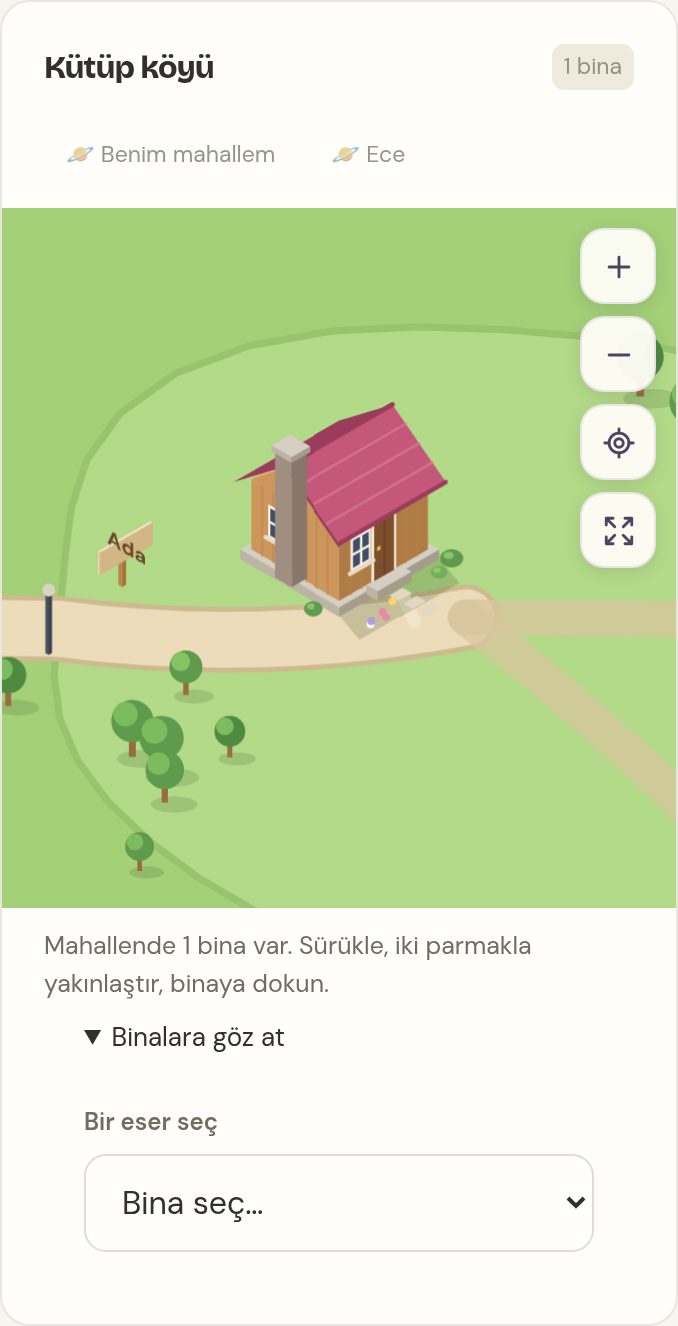
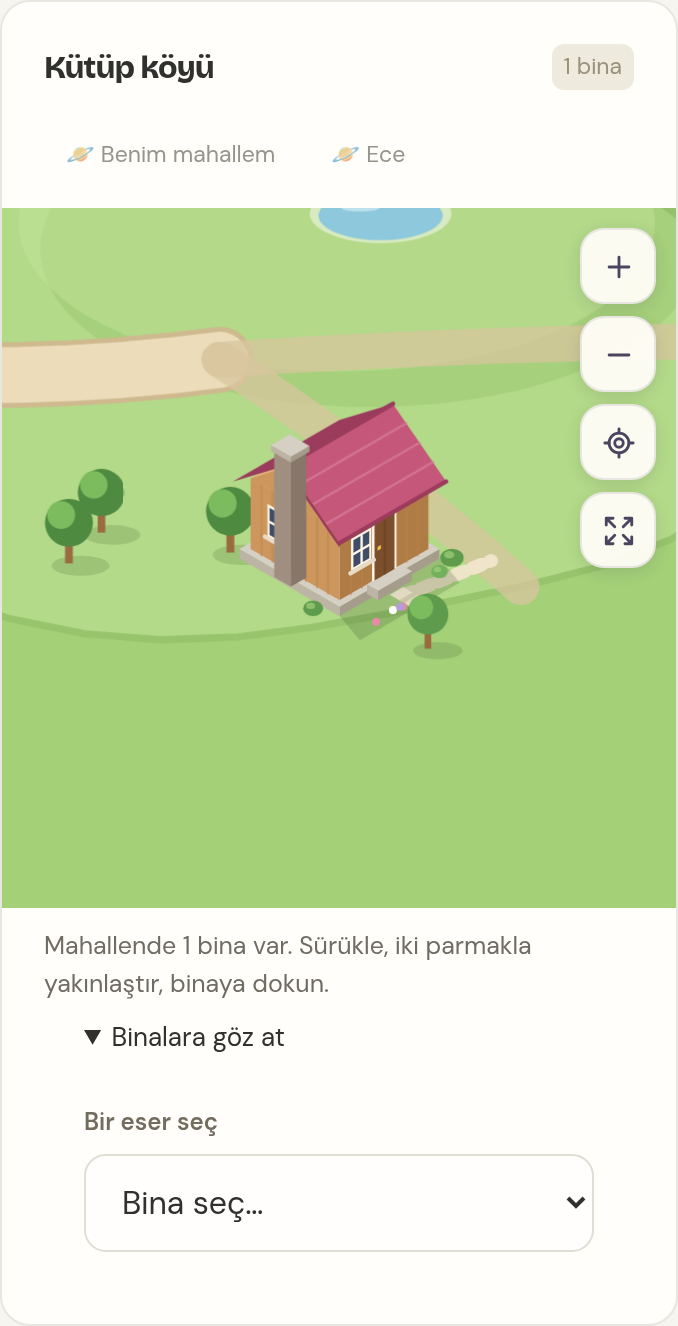
Document audit results, recovery procedures and Claude handoff

Changed region(s): [[0.0, 0.2474, 1.0, 0.6493], [0.4646, 0.1546, 0.6814, 0.1855], [0.9602, 0.2474, 1.0, 0.3092]]

diff --git a/kutup/ASTRA_RAPOR.md b/kutup/ASTRA_RAPOR.md
@@ -1,0 +1,87 @@
+# Kütüp — Astra denetim raporu
+
+**Tarih:** 14 Ekim 2026 · **Depo:** `batur-create/atomuparcalayanbebek` · **Dal:** `kutup-platform`  
+**İncelenen başlangıç:** `d1ac228c` · **Yöntem:** kod/SQL incelemesi, Node ve yerel workerd/D1 regresyonları, gerçek Chromium akışları ve çizim kontrolü. Çalışma Codex tarafından yürütüldü.
+
+## Özet
+
+1. Önce `ASTRA_DENETIM.md`, ardından `HANDOFF.md` bütünüyle okundu; temiz çalışma kopyası güncel dala fast-forward edildi.
+2. Tek kullanımlık kodların eşzamanlı kullanımı, kurtarma sonrası eski oturumlar ve iptal edilen cihazlara bildirim/SSE sızıntısı kapatıldı.
+3. Giriş denemelerinin sınırı artık Worker belleğine bağlı değil; ortak veritabanında tutuluyor. Yeni katılışlarda hesap zorunlu, eski üyeler korunuyor.
+4. Köyde boş arsa paylaşma, aynı isimle eşzamanlı katılma/profil düzenleme ve paralel odak başlatma yarışları işlem bütünlüğüyle korunuyor.
+5. Geç işlenen odak seansının binasının artımlı senkronda kaybolması, süresi dolan durum ve eski yanıtın yeni veriyi ezmesi düzeltildi.
+6. Haritanın son karosunun çizilmemesi ve büyük ekranlarda önbelleğin sürekli boşalıp dolması düzeltildi; 1.000 bina gerçek tarayıcıda doğrulandı.
+7. Hesap bileşenleri ayrıldı; erişilebilir ortak modal, Batur için kopyalanabilir kod penceresi, haritada klavyeyle bina seçimi ve hareket azaltmada görünür enkaz eklendi.
+8. Geliş/mola bildirimlerinin ayrı 45 dakika sınırı artık durum değiştirerek aşılamaz; eşzamanlı geliş tek bildirim üretir.
+9. Sonuç: **63/63 otomatik test**, **18/18 tarayıcı kontrolü**, **0 bildirilen npm açığı**. Canlı veri değişmedi. **Bu değişiklikler yayın bekliyor.**
+
+## Yapılan değişiklikler
+
+| Commit | Dosyalar | Sorun ve yeni davranış | Risk / doğrulama |
+| --- | --- | --- | --- |
+| `2975294a` | `tests/suite.js` | Wrangler’ın yazılamayan kullanıcı dizinine bağımlılığı kaldırıldı. Geçici config/log dizini; erken süreç ölümü anında hata; test anahtarı hata çıktısında maskelenir. | Düşük. İlk ortam hatası giderilince başlangıçtaki 45 test geçti. TLS doğrulaması kapatılmadı. |
+| `9cacccc5` | `server/app.js`, `schema.js`, `index.js`, `src/Owner.jsx`, testler | Transfer ve kurtarma kodu tüketimi koşullu tek batch; sadece kazanan oturum açar. Parola/kurtarma kodu eski cihazları kapatır; normal cihaz aktarımı ilk cihazı korur. | Orta: oturum davranışı bilinçli sıkılaştı. Node/D1 paralel kod denemeleri, eski cookie reddi ve normal transfer testleri. |
+| `9cacccc5` | Aynı dosyalar | Push aboneliği cihaz oturumuna bağlı. Owner aboneliği ayrıca anahtar sürümüne bağlı. Çıkış bütün oturumları, abonelikleri ve verilmiş kodları iptal eder. Node SSE gönderim/heartbeat sırasında yetkiyi yeniden kontrol eder. | Orta: eski abonelikler ilk doğrulanmış ziyarette tekrar bağlanır. İptal sonrası SSE kapanması, push gelmemesi ve owner logout testleri. |
+| `9cacccc5` | `server/app.js`, `schema.js` | Normal oturumda 365 gün, owner’da 30 gün sunucuda da uygulanır. SHA-256 anahtarlı, atomik SQLite/D1 deneme sayaçları; login, reset, transfer ve yönetici girişine ortak sınır. Yeni katılışta kullanıcı adı/şifre zorunlu. | Eski, süresi dolmamış hesaplar ve oturumlar korunur. Legacy göç, kopyalanmış eski cookie, iki app instance’ı ve eksik hesap testleri. |
+| `9dbfe175` | `server/app.js`, `schema.js`, testler | Okuma/planlama ile yazma arasına revision kontrolü kondu. Aynı boş arsayı kapma, isim çakışması, profil çakışması ve iki cihazdan odak başlatma güvenli biçimde yeniden denenir/reddedilir. | Orta: göç 9 gerekli; geçersiz guard bütün batch’i geri alır. Yarış testleri ve koordinatların korunması doğrulandı. |
+| `9dbfe175` | `server/app.js` | Sonradan işlenen bina `created=odak bitişi`, `touched=eklenme zamanı` alır. Süresi dolan durum kalıcı olarak `away` olur ve revision artar. Parola kontrolüyle session ekleme arasındaki hesap değişimi de denetlenir. | Düşük/orta. Geç kredilendirme, artımlı bina listesi, idle polling, eski koordinatlar ve hesap testleri. |
+| `76ffbe8d` | `src/sync.js`, `App.jsx`, `api.js`, `VillageMap.jsx`, `villageWorld.js` | Düşük revision’lı cevap reddedilir; poll istekleri üst üste binmez, eski effect isteği iptal edilir. Köy hatası görünür, otomatik ve elle yeniden deneme vardır. Bozuk JSON başarılı veri sayılmaz. | Düşük. Saf merge testleri ve gerçek tarayıcıda ilk köy isteğini düşürüp toparlama kontrolü. |
+| `76ffbe8d` | `src/villageView.js`, `villageWorld.js`, `tests/client.test.js` | Görünen karolar 40’lık önbelleğe sığacak çözünürlük seçer; çok uzak zoom desteklenir. Son üretilen karo uyumadan önce ekrana aktarılır. Yol üyeliği `Set` ile aranır; gizli sayfada çizim durur. | Görsel risk: büyük ekranda gerektiğinde daha düşük karo çözünürlüğü. Mobil, 1080p/4K boyut matematiği ve gerçek 1.000 bina çizimiyle doğrulandı. |
+| `839645dc` | `src/Account.jsx`, `Modal.jsx`, `App.jsx`, `Owner.jsx`, `ui.jsx`, CSS | 578 satırlık hesap/profil akışı ayrıldı. Modal `inert` arka plan, Escape, Tab döngüsü ve odak geri dönüşü sağlar. Giriş sekmeleri ok tuşlarıyla seçilir. Batur kodu seçilebilir/kopyalanabilir pencerede; Busy düğmesi yüklenirken gerçekten devre dışı kalır. Eski “şifre yok” metni düzeltildi. | Orta: bileşen taşıma. Gerçek mobil signup, invite, kurtarma, owner, klavye ve tarayıcı hatası kontrolleri geçti. |
+| `839645dc` | `src/Village*.jsx/js`, `styles.css` | Sayfalı bina listesi, canvas Enter seçimi, enkaz süresinin istemcide sona ermesi; küçük yazılar için ana muted rengi koyulaştırıldı. Uzakta kişi başına tek etiket, lamba ve seçili bina için doğrudan indeksler. | Düşük. Bina listesi/kart, mobil taşma ve 1.000 bina görselleri. Saklı konumlara dokunulmadı. |
+| `839645dc` | `src/Village.jsx` | Hareket azaltmada çökme sahnesi ilk çizimde enkazı gösterir; 5 sn’lik sonraki tick’i beklemez. Zıplama/konfeti hareketi kapalıdır. | Düşük. Kulübe/ev/kule × temel/yükselme/bitiş/enkaz olmak üzere 12 sahne gerçek Chromium’da incelendi. |
+| `839645dc` | `server/index.js`, tarayıcı testleri | Vite HMR Node HTTP portunu paylaşır; aynı makinedeki izole test sunucuları varsayılan WebSocket portunda çakışmaz. | Yalnız geliştirme. Yakalanan gerçek WebSocket hatası düzeltildi; final tarayıcı koşusunda JS hatası yok. |
+| `c39bb63e` | `server/app.js`, `public/_headers`, `src/App.jsx`, testler | Geciken “görüldü” daha yeni istek aşamasını ezemez; geçmiş ve durum aynı işlemde korunur. Gövde akışı 16 KiB’ta durdurulur; bozuk URL 400, `Origin: null` 403 olur. Worker statik içeriğine Node ile aynı CSP eklendi. Eski hesap epoch’undaki focus yanıtı yok sayılır. | Düşük/orta. Zorlanmış gecikmeli seen yarışı, Node/D1 paralel panel işlemi, sınırsız stream’i erken kesme ve bozuk istek testleri. |
+
+| `00251a00` | `server/app.js`, `schema.js`, çekirdek ve uçtan uca testler | Geliş/mola için ayrı kalıcı cooldown; durum işlemleri taze üye bilgisi ve revision guard ile yapılır. İki cihazdan geliş tek pano hareketi ve push üretir. | Göç 10 eski son bildirim zamanını korur. Node/Worker şifreli teslim, here/break döngüsü, süre dolumu ve migration doğrulandı. |
+
+Küçük commit’ler sonunda `npm run test:all` yeşil bırakıldı. İlk başarısız koşu ortamın Wrangler dizinindendi. Geliştirme sırasında yeni güvenlik davranışına göre bildirim aboneliği yeniden kaydı ve test kullanıcısı girişleri güncellendi; hiçbir test kapatılmadı veya assertion boşaltılmadı.
+
+## Şema ve veri bütünlüğü
+
+- **Göç 1–7 aynen korundu.** Yeni göçler listede sona eklendi; her eleman tek SQL ifadesi.
+- **8:** `auth_limits`, süre indeksi; `subscriptions.session_token` → `sessions` ve `owner_subscriptions.session_token` → `owner_sessions`, `ON DELETE CASCADE`; owner aboneliğine `key_hash`; oturum süre indeksleri.
+- **9:** tek satırlık `write_guard`; `snapshot_changed` CHECK koşulu. Okunan grup revision’ı veya feedback sürümü artık aynı değilse tüm batch iptal edilir. En fazla beş deneme; başarısız işlem kısmi veri bırakmaz.
+- **10:** `members.pushed_here_at` ve `pushed_break_at`; bilinen eski son bildirim ilgili alana taşınır. Artık tür değiştirmek önceki cooldown’ı sıfırlamaz. Durum yazmaları da göç 9 korumasını kullanır.
+- Köy konumları, yönleri ve mevcut odak kayıtları yeniden hesaplanmadı. Eski veritabanından yükseltme, ikinci başlangıçta konum değişmemesi, silinen üyenin boş mahallesinin yeniden kullanılması test edildi.
+- `auth_limits` ve `write_guard` sıcak, değişmeyen `/state?rev` yoklamasına ekstra yazma getirmez. Auth sayaçları sadece ilgili giriş işlemlerinde, guard ise ilgili değişikliklerde kullanılır.
+- Mevcut API yolları, cevapların temel şekli ve `?tab=focus` bağlantıları korundu. Bilinçli doğrulama değişikliği: yeni `/groups` ve `/join` istekleri kullanıcı adı/şifre ister; güncel arayüz zaten bunları gönderiyordu.
+
+## Test ve yayın durumu
+
+| Kontrol | Sonuç |
+| --- | --- |
+| `npm ci --cache /workspace/.npm-cache --no-audit --no-fund` | Kilit dosyasıyla kuruldu; paket sürümleri değiştirilmedi. |
+| `npm run test:all` | **63 geçti, 0 başarısız, 0 atlanan.** Vite build + çekirdek/istemci/push + Node + gerçek yerel workerd/D1. |
+| `python tests/browser_smoke.py --chromium /usr/bin/chromium` | **18 kontrol geçti.** Kendi geçici veritabanını ve sunucusunu açar/kapatır. Chromium `154.0.8037.57`. |
+| Mobil | 375×812: Kütüp, Planlar, Köy, Pano ve Batur’a sekmelerinde yatay taşma yok. Modal odağı, hesap açma/kurtarma, özel geri bildirim, ikinci tarayıcıya durum, bina seçimi doğrulandı. |
+| Görsel | 12 SVG sahne, mobil Canvas harita ve 1.000 bina gerçek tarayıcıda çizildi ve ekran görüntüleri incelendi. |
+| `npm audit --json` | **0** bildirilen açık; bu sonuç uygulamaya yönelik pentest sertifikası değildir. |
+| Canlı salt okunur health isteği | Çevre proxy’si `CONNECT ... 403` döndürdü; siteye ulaşılamadı. Bu, canlı sitenin bozuk olduğu anlamına gelmez. |
+| Deploy | **Çalıştırılmadı / yayın bekliyor.** Cloudflare API kimliği bu ortamda yok; ağ da engelli. Yerel workerd sonucu canlı deploy sonucu değildir. |
+| Bulut ortamı | Güncel `start_skill` taslağı kaydedildi. Kurulum betiği ve bilinmeyen sırlar değiştirilmedi. Taslak kaydı yayın değildir. |
+
+Tarayıcı ölçümü: **1.000 bina, 122 mahalle, 4.497 çizim öğesi**. Dünya oluşturma **47,7 ms**; merkezdeki örnek alan sorgusu 128 öğe döndürdü. Bu yerel Chromium ölçümüdür; telefon FPS’i, Cloudflare CPU süresi veya D1 günlük kotası ölçümü değildir. DPR 2’de 40 adet 256px karo yaklaşık 40 MiB ham piksel belleğidir; ana canvas ve tarayıcı ek yükü buna dahil değildir.
+
+Kanıtlar: [sonuç JSON’u](audit/2026-10-14/results.json), [mobil köy](audit/2026-10-14/mobile-village.png), [kod penceresi — kod maskeli](audit/2026-10-14/owner-recovery.png), [12 inşaat sahnesi](audit/2026-10-14/construction-scenes.png), [1.000 bina](audit/2026-10-14/village-1000.png). Hepsi sentetik yerel veridir.
+
+## Tespit edilip değiştirilmeden bırakılanlar
+
+1. **Kalıcı ayrılma/silme:** HANDOFF’taki açık gizlilik kararıyla uyumlu. Gizli 30 günlük kişisel arşiv eklemek ürün/saklama politikası değişikliği olurdu. Ad yazarak ayrılma onayı korunuyor. Kurtarma yolu ve sınırlar [RECOVERY.md](RECOVERY.md) içinde.
+2. **JSON’dan otomatik restore yok:** Panel export’u bir veri kopyası; oturum ve push sırlarını taşımıyor. Canlı üstüne güvenli olmayan bir import eklenmedi. Ayrı boş hedef, şema doğrulama, FK/sayaç/konum karşılaştırması ve prova şartlarını belgeledim. D1 Time Travel bütün veritabanını geri alır; sonradan oluşan verileri ve eski oturumları da etkiler. Uzak kurtarma komutları burada denenmedi.
+3. **PBKDF2 20.000 tur:** Ücretsiz Worker CPU bütçesi için alınmış karar korundu. Ortak DB rate limit’i eklendi; gerçek edge CPU ölçümü yapılmadan hash maliyeti yükseltilmedi. Daha geniş kullanıma geçilirse auth bütçesi ve güçlü parola maliyeti yeniden değerlendirilmelidir.
+4. **Genel yazma/join burst sınırı hâlâ süreç belleğinde:** Kritik login/reset/transfer/owner denemeleri ortak veritabanına taşındı. Mesaj, plan ve diğer yazmalar için global abuse kontrolü ayrıca ele alınmalı. Node’da `TRUST_PROXY` varsayılanı güvenilen reverse proxy varsayar; Node doğrudan internete açılacaksa `TRUST_PROXY=0` kullanılmalı. Canlı Worker `cf-connecting-ip` kullanır.
+5. **Köy zaman tabanlı delta:** Beş saniyelik overlap korunuyor. Geç odak kredisi hatası düzeltildi; birbirinden beş saniyeden fazla sapan sunucu saatleri ve çok büyük bbox akışları için revision tabanlı kalıcı değişiklik günlüğü ayrı bir geliştirme olabilir.
+6. **Çok büyük ilk legacy yerleşimi:** Mevcut canlı köy zaten yerleşmiş durumda. Binlerce konumsuz eski bina içeren özel import/backfill’in gerçek D1 istek/kota limitleri altında parçalara bölünmesi ayrıca denenmeli. Yeni 1.000 bina tarayıcı testi, böyle bir uzak migration testi değildir.
+7. **Gerçek telefon/push/offline:** Android/iOS fiziksel cihaz, VoiceOver/TalkBack, Safari, ekran kilidi ve gerçek push servis teslimi burada doğrulanmadı. Şifreleme, VAPID, teslim gövdesi ve yetkisiz aboneliğe göndermeme otomatik testli. Tam çevrimdışı uygulama/işlem kuyruğu yok; mevcut veri saklama ve retry davranışı korundu. Tam WCAG uygunluğu iddiası yok.
+8. **Kalan yapı:** Ana uygulama ve CSS hâlâ büyük; hesap/modallar ayrıldı, geniş çaplı yeniden yazım yapılmadı. Mürekkep, kara delik, rozetler ve Paket 2–9 kapsamına girilmedi.
+
+## Claude için devam notu
+
+1. `kutup-platform` güncel commit’lerini al; `ASTRA_DENETIM.md`, bu rapor ve HANDOFF §6b’yi birlikte oku. Değişikliklerin canlıda olduğunu varsayma.
+2. Yetkili ortamda önce yedek ve doğru D1 hedefini doğrula. Yeni göçler **8, 9 ve 10**. Testler geçmeden deploy etme; veri/sır dosyalarını ekrana veya Git’e çıkarma.
+3. Publish sonrası eski oturumla giriş, owner paneli, bir normal transfer, kurtarma sonrası eski cihazın reddi ve bildirim yeniden bağlanmasını kontrol et. Eski abonelikler kaybolmuş sayılmaz; doğrulanmış ziyarette otomatik kaydolur. Sadece hiç geri açılmayan eski cihazlara bildirim durur.
+4. Sabit bina konumlarını değiştirme. Artımlı API için `touched` yazma zamanıdır; `created` tarihî odak bitişidir. İstemcide revision sıralama ve istek iptalini koru.
+5. `write_guard` CHECK hatasını başarısızlığın ortasında yutup sonraki SQL’lere devam etme. SQLite/D1 batch rollback sözleşmesi bu korumanın parçasıdır.
+6. Tarayıcı testini çalıştırmak için Python Playwright ve Chromium gerekir; npm bağımlılıklarına eklenmedi. `tests/visual-harness.html` yalnız geliştirme fixture’ıdır; Vite üretim build’ine girmez. Testler `kutup/data/` kullanmaz.
+7. Bundan sonraki özellik paketi öncesinde bu denetimin yayınını tamamla. Takip riskleri yukarıda açık; restore aracını veya veri saklama politikasını aceleyle canlıya ekleme.

diff --git a/kutup/HANDOFF.md b/kutup/HANDOFF.md
@@ -14,12 +14,12 @@ Sen bu projeye kaldığı yerden devam eden geliştiricisin. Önceki sohbete eri
 
 ## 2. Mevcut özellikler (bozma)
 
-- Davet linkiyle özel ekip (`/join/<davet>`): isim, 24 avatar, 6 renk, masa notu, 5 tema. E-posta ya da şifre yok; oturum HttpOnly çerez (`kutup_session`, 1 yıl).
+- Davet linkiyle özel ekip (`/join/<davet>`): isim, 24 avatar, 6 renk, masa notu, 5 tema. E-posta yok; yeni katılışta kullanıcı adı ve şifre zorunlu. Oturum HttpOnly çerez (`kutup_session`, 1 yıl; sunucu da süreyi denetler). Eski hesapsız üyeler korunur.
 - Başka cihaz: Profil → "Başka cihazda aç" 15 dakikalık tek kullanımlık kod verir; giriş ekranında "Zaten ekipteyim" ile kullanılır. iPhone'da ana ekran uygulaması Safari'den ayrı çerez tuttuğu için şart.
 - Durum (Kütüpte / Yolda / Molada / Dışarıda), salon ve masa, "burada · 1 sa 35 dk"; durum 8 saat sonra kapanır.
 - Web Push (kendi yazdığımız Web Crypto RFC 8291 + VAPID), 45 dakikalık geliş bildirimi soğuması, bildirime dokununca ilgili sekme (`/?tab=…`).
 - Planlar (iki hafta ileri, "Ben de gelirim"), pano (mesaj, kalp, kahve daveti), haftalık odak tablosu.
-- **İnşaat modu ve köy (Forest tarzı):** Odak seansları 25/50/75 dk. İnşaat modu açıkken seans süresi binayı belirler: 25 → kulübe, 50 → iki katlı ev, 75 → kule (eşikler 40 ve 70 dk). Seans boyunca canlı izometrik şantiye çizilir. Uygulamadan 10 saniyeden uzun çıkılırsa (sekme kapatma dahil) bina çöker; tamamlanınca köye kalıcı olarak eklenir. Ekran Wake Lock ile açık tutulur. Şu an her kişinin köyü ayrı çiziliyor; bu değişecek (bkz. Paket 1).
+- **İnşaat modu ve köy (Forest tarzı):** Odak seansları 25/50/75 dk. İnşaat modu açıkken seans süresi binayı belirler: 25 → kulübe, 50 → iki katlı ev, 75 → kule (eşikler 40 ve 70 dk). Seans boyunca canlı izometrik şantiye çizilir. Uygulamadan 10 saniyeden uzun çıkılırsa (sekme kapatma dahil) bina çöker; tamamlanınca köye kalıcı olarak eklenir. Ekran Wake Lock ile açık tutulur. Tek ortak köyde herkesin kendi mahallesi var; Paket 1 tamamlandı.
 - **"Batur'a ilet":** fikir, hata ya da sohbet. Kargo takibi gibi aşamaları var: new → seen → accepted → building → done, ya da declined. Kendine ait ilham örnekleri, gönderme animasyonu, "yeni gelişme" rozeti ve her aşamada gönderene push.
 - **`/batur` yönetici paneli:** istekler (açınca "İncelendi" olur, tek tuşla aşama, not, geçmiş, arkadaşın gördüğü takip çizgisinin önizlemesi, silme), yeni istek push'u, ekipler, davet yenileme, üye çıkarma. Giriş: `ADMIN_KEY` ya da ilk ziyarette belirlenen anahtar; sonra 30 günlük `kutup_owner` çerezi (yolu `/api/owner`, SameSite=Strict). Yönetici şu an hiçbir üyeye bağlı değil.
 - Hareket katmanı: başlıklar Bricolage Grotesque, gövde DM Sans. Ziyaret başına bir kez oynayan açılış koreografisi. Diğer hareketler sadece bir eyleme cevap verir. `prefers-reduced-motion` destekleniyor.
@@ -62,13 +62,13 @@ kutup/
 ```
 npm ci
 npm run dev          # http://localhost:3001 (Node + SSE + Vite); veri: kutup/data (yerel test verisi var)
-npm test             # çekirdek + push + Node uçtan uca (25 test)
-npm run test:worker  # aynı senaryolar yerel workerd + D1 (16 test)
-npm run test:all     # hepsi (41 test) — her teslimden önce yeşil olmalı
+npm test             # çekirdek + istemci + push + Node uçtan uca
+npm run test:worker  # aynı senaryolar yerel workerd + D1
+npm run test:all     # hepsi (63 test) — her teslimden önce yeşil olmalı
 npm run deploy       # vite build + wrangler deploy (canlı)
 ```
 
-- **Wrangler** Batur'un Cloudflare hesabına OAuth ile bağlı. Token süresi dolarsa `npx wrangler login --device --browser=false` çalıştır. Çıkan kodu tarayıcı panelinde `https://dash.cloudflare.com/oauth2/device/verify` adresinde kutuya yaz, Batur'a "Continue ve Allow'a bas" de. Kodun ömrü 5 dakika.
+- **Wrangler (Batur’un Windows çalışma ortamı):** Cloudflare hesabına OAuth ile bağlı. Bu bağlantı Codex bulut ortamına taşınmış sayılmaz; 14 Ekim denetiminde burada yayın kimliği yoktu ve Cloudflare ağı 403 verdi. Token süresi dolarsa `npx wrangler login --device --browser=false` çalıştır. Çıkan kodu tarayıcı panelinde `https://dash.cloudflare.com/oauth2/device/verify` adresinde kutuya yaz, Batur'a "Continue ve Allow'a bas" de. Kodun ömrü 5 dakika.
 - **Canlı `ADMIN_KEY`** Cloudflare'de secret olarak tanımlı. Yerel kopyası `kutup/data/batur-key-canli.txt`. Asla ekrana basma ya da sohbete yazma.
 - **Canlı duman testi:** API ile geçici bir ekip kur, dene, sonunda `POST /api/leave` ile sil. Yayından hemen sonra kenar önbellek birkaç saniye eski HTML verebilir.
 - **Yerelde `/batur` testi:** Anahtarı yazmak yerine Node ile yerel veritabanına `owner_sessions` satırı ekle (`token = sha256(rastgele)`, `key_hash = sha256(anahtar)`). Sonra sayfada `document.cookie = "kutup_owner=<rastgele>; path=/api/owner"` yap.
@@ -97,6 +97,21 @@ npm run deploy       # vite build + wrangler deploy (canlı)
 
 ## 6b. Durum (son güncelleme 14 Ekim 2026)
 
+### Astra denetimi (14 Ekim 2026)
+
+**Yerelde tamamlandı; yayın bekliyor.** Ayrıntılar ve commit listesi [ASTRA_RAPOR.md](ASTRA_RAPOR.md), kurtarma prosedürü [RECOVERY.md](RECOVERY.md). `npm run test:all`: **63/63**, gerçek Chromium: **18/18**, `npm audit`: **0** bildirilen açık. `audit/2026-10-14/` sentetik verili ekran görüntülerini ve ölçümü içerir. Canlı arkadaş grubuna ve `data/` dosyalarına dokunulmadı.
+
+- **Göç 8:** ortak `auth_limits`; normal/owner push abonelikleri oturumla bağlı; owner aboneliğinde `key_hash`; oturum süre indeksleri. Eski abonelikler ilk doğrulanmış ziyarette tekrar bağlanır; sunucu anonim eski kayıtlara bildirim göndermez. Parola kurtarma eski cihazları kapatır; normal cihaz aktarımı ilk cihazı açık tutar. Yönetici tüm cihazlardan çıkış, push ve verilmiş kodları da iptal eder. Node SSE her gönderimde oturumu doğrular.
+- **Göç 9:** `write_guard` ve `snapshot_changed` CHECK koşulu; okuma/planlama sırasında değişen ekip veya istek olduğunda batch tamamen geri alınır ve güncel veriyle denenir. Bunu kaldırma; aynı boş arsayı kapma, aynı adlı katılma/profil, paralel odak başlatma ve gecikmiş “görüldü” yarışları için gereklidir. Göç 1–7 değişmedi.
+- **Göç 10:** geliş ve mola için ayrı kalıcı bildirim zamanları; `here → break → here` döngüsü 45 dakika sınırını aşamaz. Eşzamanlı durum değişikliği revision korumasına alındı; çift bildirim/pano hareketi üretmez. Eski son bildirim zamanı korunur.
+- **Senkron:** geç tamamlanan binanın `created` değeri bitiş zamanı, `touched` değeri eklenme zamanı. İstemci düşük revision’lı yanıtı kabul etmez; köy ağ hatasını yeniden dener. Süresi dolan durum grup revision’ını değiştirir. Enkaz istemcide zamanı gelince kaldırılır.
+- **Arayüz:** hesap/profil akışları `src/Account.jsx`, ortak pencereler `src/Modal.jsx` içinde. Modal arka planı `inert`, odağı hapseder/geri verir; giriş sekmeleri ok tuşlarıyla çalışır. Batur kodu prompt yerine kopyalanabilir pencere. Haritada sayfalı bina seçimi ve Enter desteği var. Küçük yazıların ana muted rengi koyulaştırıldı.
+- **Çizim:** görünen karolar 40’lık önbelleğe sığacak ölçek seçer; son çizilen karo ekrana aktarılır. Hareket azaltmada çökme anında enkaz görünür. 1.000 bina/122 mahalle Chromium’da doğrulandı; uzakta tek kişi adı, yakında mahalle tabelaları korunur. Saklı koordinatlar değişmedi.
+- **Araçlar:** `npm run test:browser` Python Playwright + Chromium ister; tüm verisi geçicidir. Vite HMR artık Node HTTP portunu paylaşır. Bulut `start_skill` taslağı güncellendi; bu site yayını değildir.
+- **Claude’un ilk işi:** yetkili ortamda yedek al, güncel dalı çek, testleri çalıştır, göç 8/9/10’u inceleyip yayınla; eski bir üye ve owner cihazında push yeniden bağlanmasını, ikinci cihazla kod/giriş ve revocation’ı doğrula. Canlı `ADMIN_KEY` ve davetleri değiştirme; gerçek üyeler için deneme silmesi yapma. Paket 2–9 eklenmedi, önce denetim yayını.
+
+### Önceki paketlerin durumu
+
 - **Paket 1 ✅ yayında.** Ortak köy: `shared/village.js` (hex kafes mahalleler, kıvrımlı yollar, Poisson yerleşim, `createPlanner`), göç 6 (`districts`, `buildings.pos_x/pos_y/facing/district_id/likes/touched`, `building_likes`, `members.ruin_*`, `groups.village_rev`), açılışta `layoutVillages()` eski binalara kalıcı konum verir. `/api/village?rev=&after=` artımlı (sadece değişen satırlar), `POST /api/buildings/:id/like`. Çizim: `src/iso.js` (SVG/Canvas ortak primitifler), `src/villageWorld.js` (dünya + gün/gece tonu), `src/villageView.js` (256px karo önbelleği, LOD, pinch/pan, canlı katman), `src/VillageMap.jsx` (`useVillage`, `VillagePanel`, ana sayfa `VillageNow`). Mahalle kapasitesi en fazla 9, pratikte 7–9.
 - **Ölçek:** 5 kişi sıkı bir dönemde ~300–1.900 bina. Sıcak yollar sayaçlarla (`districts.buildings`, `buildings.likes`) çalışır, tüm binaları taramaz (D1 ücretsiz 5M satır/gün sınırı).
 - **Paket 1.5 sunucu tarafı ✅ yayında (göç 7):** `members.username/pass_hash/reset_hash/reset_until`; `POST /api/account` (oturum açık cihazdan kullanıcı adı + şifre belirle/değiştir), `POST /api/login`, `POST /api/reset` (Batur kodu + yeni şifre, kullanıcı adı yoksa onu da belirler), `/join` ve `/groups` gövdede `username/password` kabul eder, oturum yanıtlarında `username`. `POST /api/owner/members/:id/reset` 24 saatlik kod üretir; bu kod `/transfer/claim`'de ("Zaten ekipteyim" ekranı) de tek seferlik giriş olarak çalışır. `/batur` panelinde üye satırında 🔑 düğmesi ve `@kullanıcıadı` görünür. Kullanıcı adı ı/i farkına duyarsız.
@@ -107,7 +122,7 @@ npm run deploy       # vite build + wrangler deploy (canlı)
 - **Sıradaki: Paket 2 — Mürekkep.**
 - **Paket 1.5 plan notu (tamamlandı):**
   1. ✅ Demo kaldırıldı; oturumsuz → `Welcome` ekranı (Giriş yap / Yeni ekip kur; davet linkinde "Ekibe katıl"). Kalan: girişte "Şifremi unuttum" için `/reset` formu (kod + kullanıcı adı + yeni şifre). Şimdilik Batur kodu "Kodla" sekmesinde giriş yaptırıyor, sonra Benim köşem → Hesap'tan yeni şifre belirleniyor.
-  2. Katılma/kurma formunda kullanıcı adı + şifre zorunlu (sunucu isteğe bağlı tutuyor, eski testler yüzünden).
+  2. Katılma/kurma formunda kullanıcı adı + şifre zorunlu (Astra denetiminde sunucu da zorunlu hale getirildi; eski hesaplar korunur).
   3. "Benim köşem"e "Hesap" bölümü (`/api/account`); hesabı olmayanlara ana sayfada nazik hatırlatma kartı.
   4. Veri güvenliği: `/batur`'a "Tüm veriyi yedekle (JSON indir)" uç noktası + düğmesi; "Ekipten ayrıl" yanlışlıkla basılmasın diye ad yazarak onay (ya da 30 gün geri alınabilir yumuşak silme); panelde üye ayrıntısı (cihaz/oturum sayısı, odak toplamı, bina sayısı, tüm oturumları kapat). D1 Time Travel ücretsiz planda 7 gün geri dönüş sağlar (`npx wrangler d1 time-travel restore kutup --timestamp=…`).
   5. Çoklu cihaz: tüm veri sunucuda, istemcide kalıcı veri yok; her yazma `state` döndürür, yoklama `rev` ile. 10 cihaz aynı anda sorun çıkarmaz; bunu bozmamaya dikkat.

diff --git a/kutup/README.md b/kutup/README.md
@@ -8,12 +8,12 @@ Bu klasör bağımsız bir projedir; üst klasördeki mağaza uygulamasını kul
 
 ## Neler var
 
-- **Davet bağlantısıyla özel ekip.** E-posta yok, şifre yok: isim, 24 avatar, 6 renk, masa notu ve 5 ekran teması.
+- **Davet bağlantısıyla özel ekip.** E-posta gerekmez; katılırken kullanıcı adı ve şifre belirlenir. İsim, 24 avatar, 6 renk, masa notu ve 5 ekran teması.
 - **Kütüpte / Yolda / Molada / Dışarıda.** Salon ve masa bilgisi, “Başka bir yer…” seçeneği, “burada · 1 sa 35 dk” gibi süre bilgisi. Konum izni yok; durum 8 saat sonra kendiliğinden kapanır.
 - **Bildirimler.** Biri kütübe gelince, molaya çıkınca, kahveye çağırınca ya da plan yapınca telefona bildirim gider. Aynı kişi 45 dakika içinde tekrar gelip giderse ikinci bildirim gitmez. Bildirime dokununca ilgili sekme açılır.
 - **Planlar.** Önümüzdeki iki hafta için plan yapılır, “Ben de gelirim” ile katılınır. Plan kartlarında “Bugün / Yarın / Cumartesi” yazar.
 - **Odak odası.** 25, 50 ve 75 dakikalık seanslar, arkadaşının seansına katılma, sekme başlığında geri sayım, **Haftanın odak tablosu** (🥇🥈🥉, pazartesi sıfırlanır). Bitmiş seanslar uygulama kapalıyken de sayılır.
-- **İnşaat modu ve Kütüp köyü (Forest tarzı).** Odak sayfasında açılır. Süre binayı belirler: 25 dk kulübe, 50 dk iki katlı ev, 75 dk kule. Seans boyunca canlı bir şantiye görünür: kazıklar, temel, direkler, yükselen duvarlar, yerine oturan çatı, pencereler ve bahçe; vinç sıradaki malzemeyi indirir. Ekran açık kalır (Wake Lock). Uygulamadan 10 saniyeden uzun çıkarsan, sekmeyi kapatırsan ya da pes edersen bina çöker, dakikalar yazılmaz ve panoya “inşaatı çöktü 🧱” düşer. Sonuna kadar kalırsan bina köyüne kalıcı olarak eklenir; rengi ve malzemesi her zaman aynı kalır. Herkesin ayrı köyü var, arkadaşlarının köyüne Odak sayfasından bakılır. Sunucu, uygulamanın 20 saniyede bir gönderdiği sinyale bakar. Web sitesi telefon kilidini uygulamadan çıkmaktan ayıramaz, bu yüzden İnşaat modunda ekranı kilitleme.
+- **İnşaat modu ve Kütüp köyü (Forest tarzı).** Odak sayfasında açılır. Süre binayı belirler: 25 dk kulübe, 50 dk iki katlı ev, 75 dk kule. Seans boyunca canlı bir şantiye görünür: kazıklar, temel, direkler, yükselen duvarlar, yerine oturan çatı, pencereler ve bahçe; vinç sıradaki malzemeyi indirir. Ekran açık kalır (Wake Lock). Uygulamadan 10 saniyeden uzun çıkarsan, sekmeyi kapatırsan ya da pes edersen bina çöker, dakikalar yazılmaz ve panoya “inşaatı çöktü 🧱” düşer. Sonuna kadar kalırsan bina köyüne kalıcı olarak eklenir; rengi ve malzemesi her zaman aynı kalır. Tek ortak köyde herkesin kendi mahallesi var; Köy sekmesinden gezilir. Sunucu, uygulamanın 20 saniyede bir gönderdiği sinyale bakar. Web sitesi telefon kilidini uygulamadan çıkmaktan ayıramaz, bu yüzden İnşaat modunda ekranı kilitleme.
 - **Bizim pano.** Mesajlar, kalpler, kahve davetleri. Gelip gitme hareketleri gerçek mesajları panodan itmez.
 - **Başka cihazda aç.** “Benim köşem → Başka cihazda aç” 15 dakikalık tek kullanımlık kod verir. iPhone’da Safari ile ana ekran uygulamasının oturumları ayrı tutulduğu için bu gerekli.
 - **Batur’a ilet: kargo takibi gibi istek sistemi.** Fikir, hata ya da iki çift laf; farklı alanlardan tıklayınca dolan ilham örnekleri. Gönderince zarf uçar, “Kutuya düştü ✓” damgası iner. Her istek *Gönderildi → İncelendi → Kabul edildi → Yapılıyor → Yayında* (ya da *Bu sefer olmadı*) çizgisinde ilerler. Batur açtığı an “İncelendi” olur, sonraki aşamaları panelden tek tuşla seçer, isterse not yazar. Gönderene her adımda bildirim gider, menüde “yeni gelişme” rozeti çıkar, kabul ve yayın anında küçük bir kutlama patlar.
@@ -96,9 +96,10 @@ Telefonla aynı Wi-Fi’dan denemek için: `HOST=0.0.0.0 npm run dev`.
 ### Testler
 
 ```sh
-npm test             # çekirdek + bildirim şifreleme + Node uçtan uca (25 test)
-npm run test:worker  # aynı senaryolar yerel Cloudflare/D1 üzerinde (16 test)
-npm run test:all
+npm test             # çekirdek + istemci mantığı + şifreleme + Node
+npm run test:worker  # aynı senaryolar yerel Cloudflare/D1 üzerinde
+npm run test:all      # build + 63 test (Node ve Worker dahil)
+npm run test:browser  # isteğe bağlı: Python playwright + Chromium gerekir
 ```
 
 Testler geçici, izole veritabanları kullanır: davet ve isim çakışması, ekipler arası izolasyon, yoklama ve SSE, pano limitleri, odak doğrulaması ve çevrimdışı kredilendirme, şifreli ve imzalı Web Push’un sahte bir push servisine teslimi ve bekleme süresi, cihaz kodu, Batur kutusu, davet yenileme, üye çıkarma, ekipten ayrılma, yeniden başlatmada kalıcılık ve ilk sürümün veritabanından otomatik geçiş.
@@ -113,11 +114,14 @@ server/sqlite.js    node:sqlite bağdaştırıcısı
 server/index.js     Node sunucusu: SSE, statik dosyalar, Vite geliştirme modu
 worker/index.js     Cloudflare Worker girişi: D1 bağdaştırıcısı, ASSETS
 shared/requests.js  İstek aşamaları ve metinleri (sunucu ve arayüz ortak)
-src/App.jsx         Arayüz
+src/App.jsx         Ana ekran, durum ve odak akışları
+src/Account.jsx     Giriş, kurtarma, profil ve cihaz aktarımı
+src/Modal.jsx       Ortak klavye odağı ve erişilebilir pencere
+src/sync.js         Geç gelen yanıtları reddeden durum birleştirme
 src/Requests.jsx    Batur’a ilet: ilham örnekleri, gönderme animasyonu, takip çizgisi
 src/Owner.jsx       /batur paneli
 src/ui.jsx          Ortak küçük bileşenler
-src/api.js          İstemci API’si, yardımcılar ve ön izleme verisi
+src/api.js          İstemci API’si ve yardımcılar
 src/styles.css      Tasarım, temalar, mobil düzen
 src/motion.css      Açılış koreografisi, hareketler, takip çizgisi ve panel stilleri
 public/sw.js        Bildirim service worker’ı
@@ -132,3 +136,15 @@ wrangler.jsonc      Cloudflare yapılandırması
 - Ekipler en fazla 80 kişidir. 120 günden eski mesajlar ve 30 günden eski planlar kendiliğinden temizlenir.
 - E-posta/Google girişi, özel mesaj, GPS, resmi kütüphane doluluk verisi veya rezervasyon yoktur. Görülen durumlar arkadaşların kendi bildirimidir.
 - Yazı tipleri uygulamayla birlikte gelir; Google Fonts bağlantısı gerekmez.
+
+## Denetim ve kurtarma
+
+14 Ekim 2026 denetimi: [ASTRA_RAPOR.md](ASTRA_RAPOR.md). Claude için güncel durum: [HANDOFF.md](HANDOFF.md#6b-durum-son-güncelleme-14-ekim-2026). Yedek türleri, güvenli kurtarma provası ve D1 Time Travel sınırları: [RECOVERY.md](RECOVERY.md).
+
+Gerçek tarayıcı kontrolleri kendi geçici sunucusunu başlatır; canlı veriye bağlanmaz:
+
+```sh
+python tests/browser_smoke.py --chromium /usr/bin/chromium --artifacts /tmp/kutup-audit-artifacts
+```
+
+Python `playwright` ve Chromium ayrı geliştirme araçlarıdır; `npm ci` bunları kurmaz. API testlerinde sahte push servisi kullanılır. Cihazdan çıkış, şifre kurtarma ve süresi dolmuş oturumlar o cihaza bağlı bildirimleri de durdurur. Eski abonelikler oturum açıkken bir sonraki ziyarette yeniden bağlanır.

diff --git a/kutup/RECOVERY.md b/kutup/RECOVERY.md
@@ -1,0 +1,57 @@
+# Kütüp verisini koruma ve kurtarma
+
+Bu belge 14 Ekim 2026 denetiminin operasyon notudur. Aşağıdaki **uzak veritabanı komutları bu denetimde çalıştırılmadı**; Cloudflare erişimi yoktu. Gerçek ekip verisine dokunulmadı.
+
+## Hangi yedek ne işe yarar?
+
+| Kaynak | İçerik | Kullanım |
+| --- | --- | --- |
+| `/batur` → Tüm veriyi yedekle | Ekipler, üyeler, hesap parola özetleri, sabit bina konumları, odak, mesajlar, planlar ve istek geçmişi | İnceleme ve veri taşımaya kaynak. Doğrudan içeri alma aracı henüz yok. Oturumları/push anahtarlarını geri açmaz. |
+| Cloudflare D1 SQL export | Tabloların tamamı; oturum, yönetici ve push sırları da bulunabilir | Yetkili, kapalı ortamda tam geri yükleme provası |
+| D1 Time Travel | Cloudflare’in tuttuğu geçmiş; ücretsiz planda son 7 gün | Yakın tarihli yanlış silme veya veri bozulmasında kontrollü geri dönüş |
+
+JSON dosyası da hassastır: kullanıcı adları, özel geri bildirimler ve parola özetleri içerir. Hiçbir yedeği Git’e, sohbete veya herkese açık dosya paylaşımına koyma. Yalnızca sahibinin okuyabildiği, tercihen şifreli bir yerde sakla. Koddaki `.gitignore` `data/` klasörünü dışlar.
+
+## Yayından önce
+
+1. Yetkili bilgisayarda doğru Cloudflare hesabı, Worker ve **kutup** D1 veritabanı olduğunu doğrula. Gizli anahtar değerlerini ekrana basma.
+2. Panelden JSON yedeği al. Mümkünse ayrıca D1 SQL export al; örnek:
+
+   ```sh
+   umask 077
+   npx wrangler d1 export kutup --remote --output=./data/kutup-before-deploy.sql
+   ```
+
+3. Yedek zamanını UTC olarak, mevcut Git commit’ini ve `settings.schema` değerini kaydet. Dosyanın oluştuğunu ve boş olmadığını doğrula; içeriğini sohbet çıktısına dökme.
+4. `npm ci` ve `npm run test:all` çalıştır. Şema 8/9/10, ilk API isteğinde otomatik uygulanır. Şema 1–7 değiştirilmemelidir.
+
+## Silinen veri için Time Travel
+
+1. Yeni yazmaları geçici olarak durdur; olaydan **önceki** UTC zamanı belirle. Önce mevcut durumun da yedeğini al.
+2. Güncel Wrangler yardımından komut seçeneklerini doğrula. Geri dönüş noktasını önce salt okunur sorguyla incele:
+
+   ```sh
+   npx wrangler d1 time-travel info kutup --timestamp="OLAYDAN_ONCEKI_UTC_ZAMAN"
+   ```
+
+3. Geri alma bütün veritabanını etkiler; yalnızca tek üyeyi geri getirmez. Seçilen andan sonraki mesajların, binaların ve hesap değişikliklerinin kaybolacağını somutlaştır. Bu yüzden gerçek kurtarma işleminden önce Batur’un bu geri dönüş noktasını onaylaması gerekir.
+4. Onaylanan noktaya geri dönüş komutu:
+
+   ```sh
+   npx wrangler d1 time-travel restore kutup --timestamp="ONAYLANAN_UTC_ZAMAN"
+   ```
+
+5. Geri gelen `settings.schema` ile çalışan uygulamanın sürümünü eşleştir. Yeni kod eski şemayı yeniden yükseltebilir; eski migration’ları düzenleyerek düzeltmeye çalışma.
+6. Geri alma eski oturumları ve kurtarma kodlarını da geri getirebilir. Etkilenen hesapların cihazlarını panelden kapat, yeni kod ver; gerekirse yönetici anahtarını döndür. Eski yedeklerden push aboneliklerini körlemesine etkinleştirme.
+7. İsimler, üye/mesaj/plan sayıları, odak toplamları, istek geçmişi, bina sayıları ve `pos_x/pos_y/facing/district_id` değerlerini karşılaştır. Yalnızca sayıları kontrol etmek yeterli değildir. İki ayrı tarayıcıyla giriş ve senkronu doğrula.
+
+## SQL veya JSON’dan kurtarma provası
+
+- SQL yedeğini önce **ayrı, boş** bir yerel veritabanında ya da ayrı bir test D1 veritabanında geri yükle. Canlı `kutup` üzerine deneme yapma. Node SQLite kopyasında `PRAGMA integrity_check` ve `PRAGMA foreign_key_check` çalıştır.
+- JSON için henüz test edilmiş bir restore CLI/API yok. Elle canlı tablolara ekleme yapma. Bir sonraki restore aracı boş hedef zorunluluğu, sürüm/kolon doğrulaması, işlem bütünlüğü, FK kontrolü, sayaçların karşılaştırılması ve bina konumlarının birebir korunmasıyla geliştirilmelidir.
+- JSON doğrudan oturum açan sırları dışlar; eski `members.token`, transfer/reset kodları veya session cookie’leri uydurarak geri giriş oluşturma. Hesabı olanlar mevcut parola özetleriyle giriş yapabilmeli; eski, hesabı olmayan üyeler için yeni yönetici kurtarma kodları üretilmelidir.
+- Başarılı provanın fark raporu ve veri kaybı kapsamı görülmeden üretim verisini değiştirme.
+
+## Bilinçli korunan silme davranışı
+
+`/leave` ve yönetici üye silme işlemi kalıcıdır. HANDOFF’taki onaylı gizlilik kararı gereği bina ve kişisel izler de silinir; boş mahalle yeniden kullanılabilir. Ayrılma öncesi ad yazarak onay korunur. Gizlice 30 günlük kişisel arşiv eklenmedi. Böyle bir ürün kararı alınırsa geri alma ve saklama süresi kullanıcıya açıkça gösterilmelidir.
